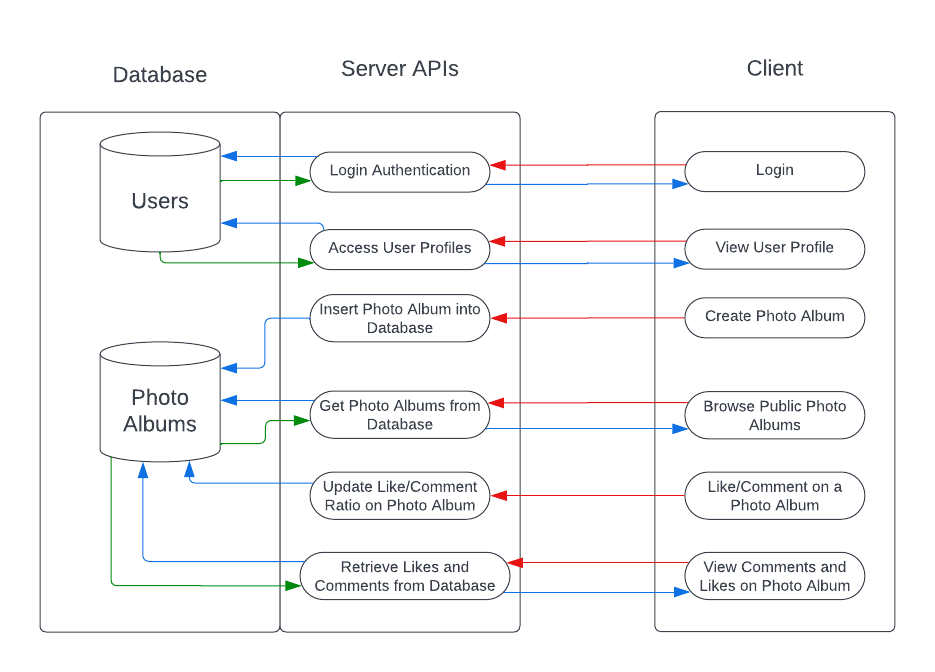
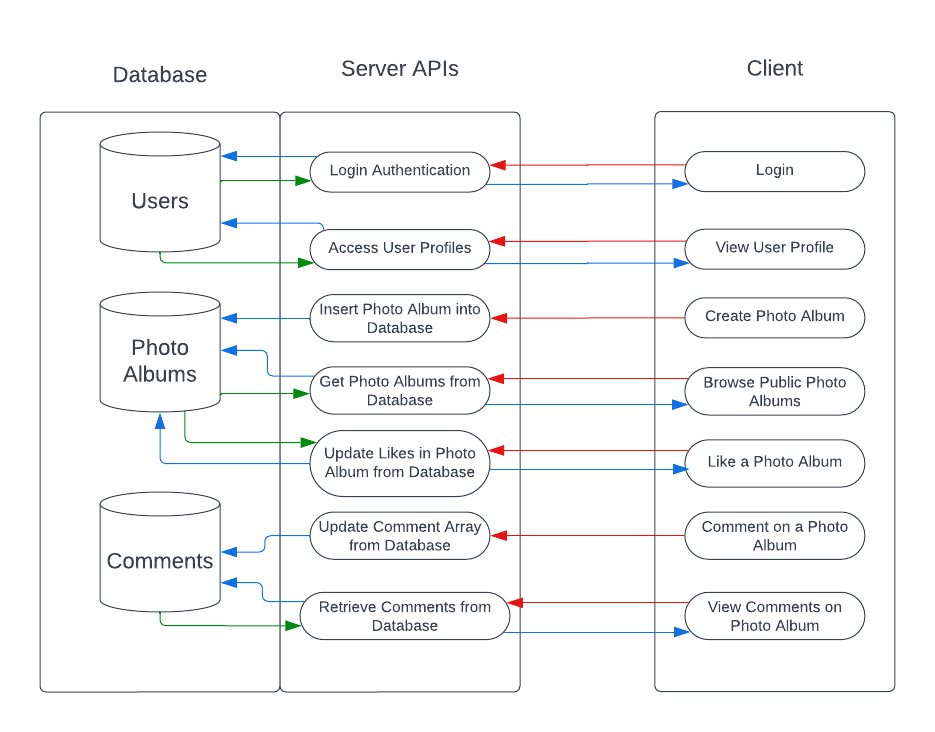
changed read me

diff --git a/README.md b/README.md
@@ -58,19 +58,23 @@ GET /album/:id - Allows users to view a specific photo album depending on an ID.
 
 ## Database Schemas:
 - Users
-    * UserID (Number)
-    * Biography (String)
+    * userID (Number)
+    * biography (String)
 - Photo Albums
-    * UserID (Number)
-    * AlbumID (Number)
-    * Title (String)
-    * Description (String)
-    * Photos (Array of Blob Links)
-    * Number of Likes (Number)
-    * People who liked (Array of Strings)
-    * Comments (Array of Objects {Commenter (String) and Comment (String)})
-    * Number of Comments (Number)
-    * Tags (Array of Strings)
+    * userID (Number)
+    * albumID (Number)
+    * title (String)
+    * description (String)
+    * photos (Array of Blob Links)
+    * likes (Array of Strings)
+    * tags (Array of Strings)
+    * created_date (Date)
+- Comments
+    * userID (Number)
+    * comment (String)
+    * photo_album (object id of an Album)
+    * created_date (Date)
+ 
 
 
 
